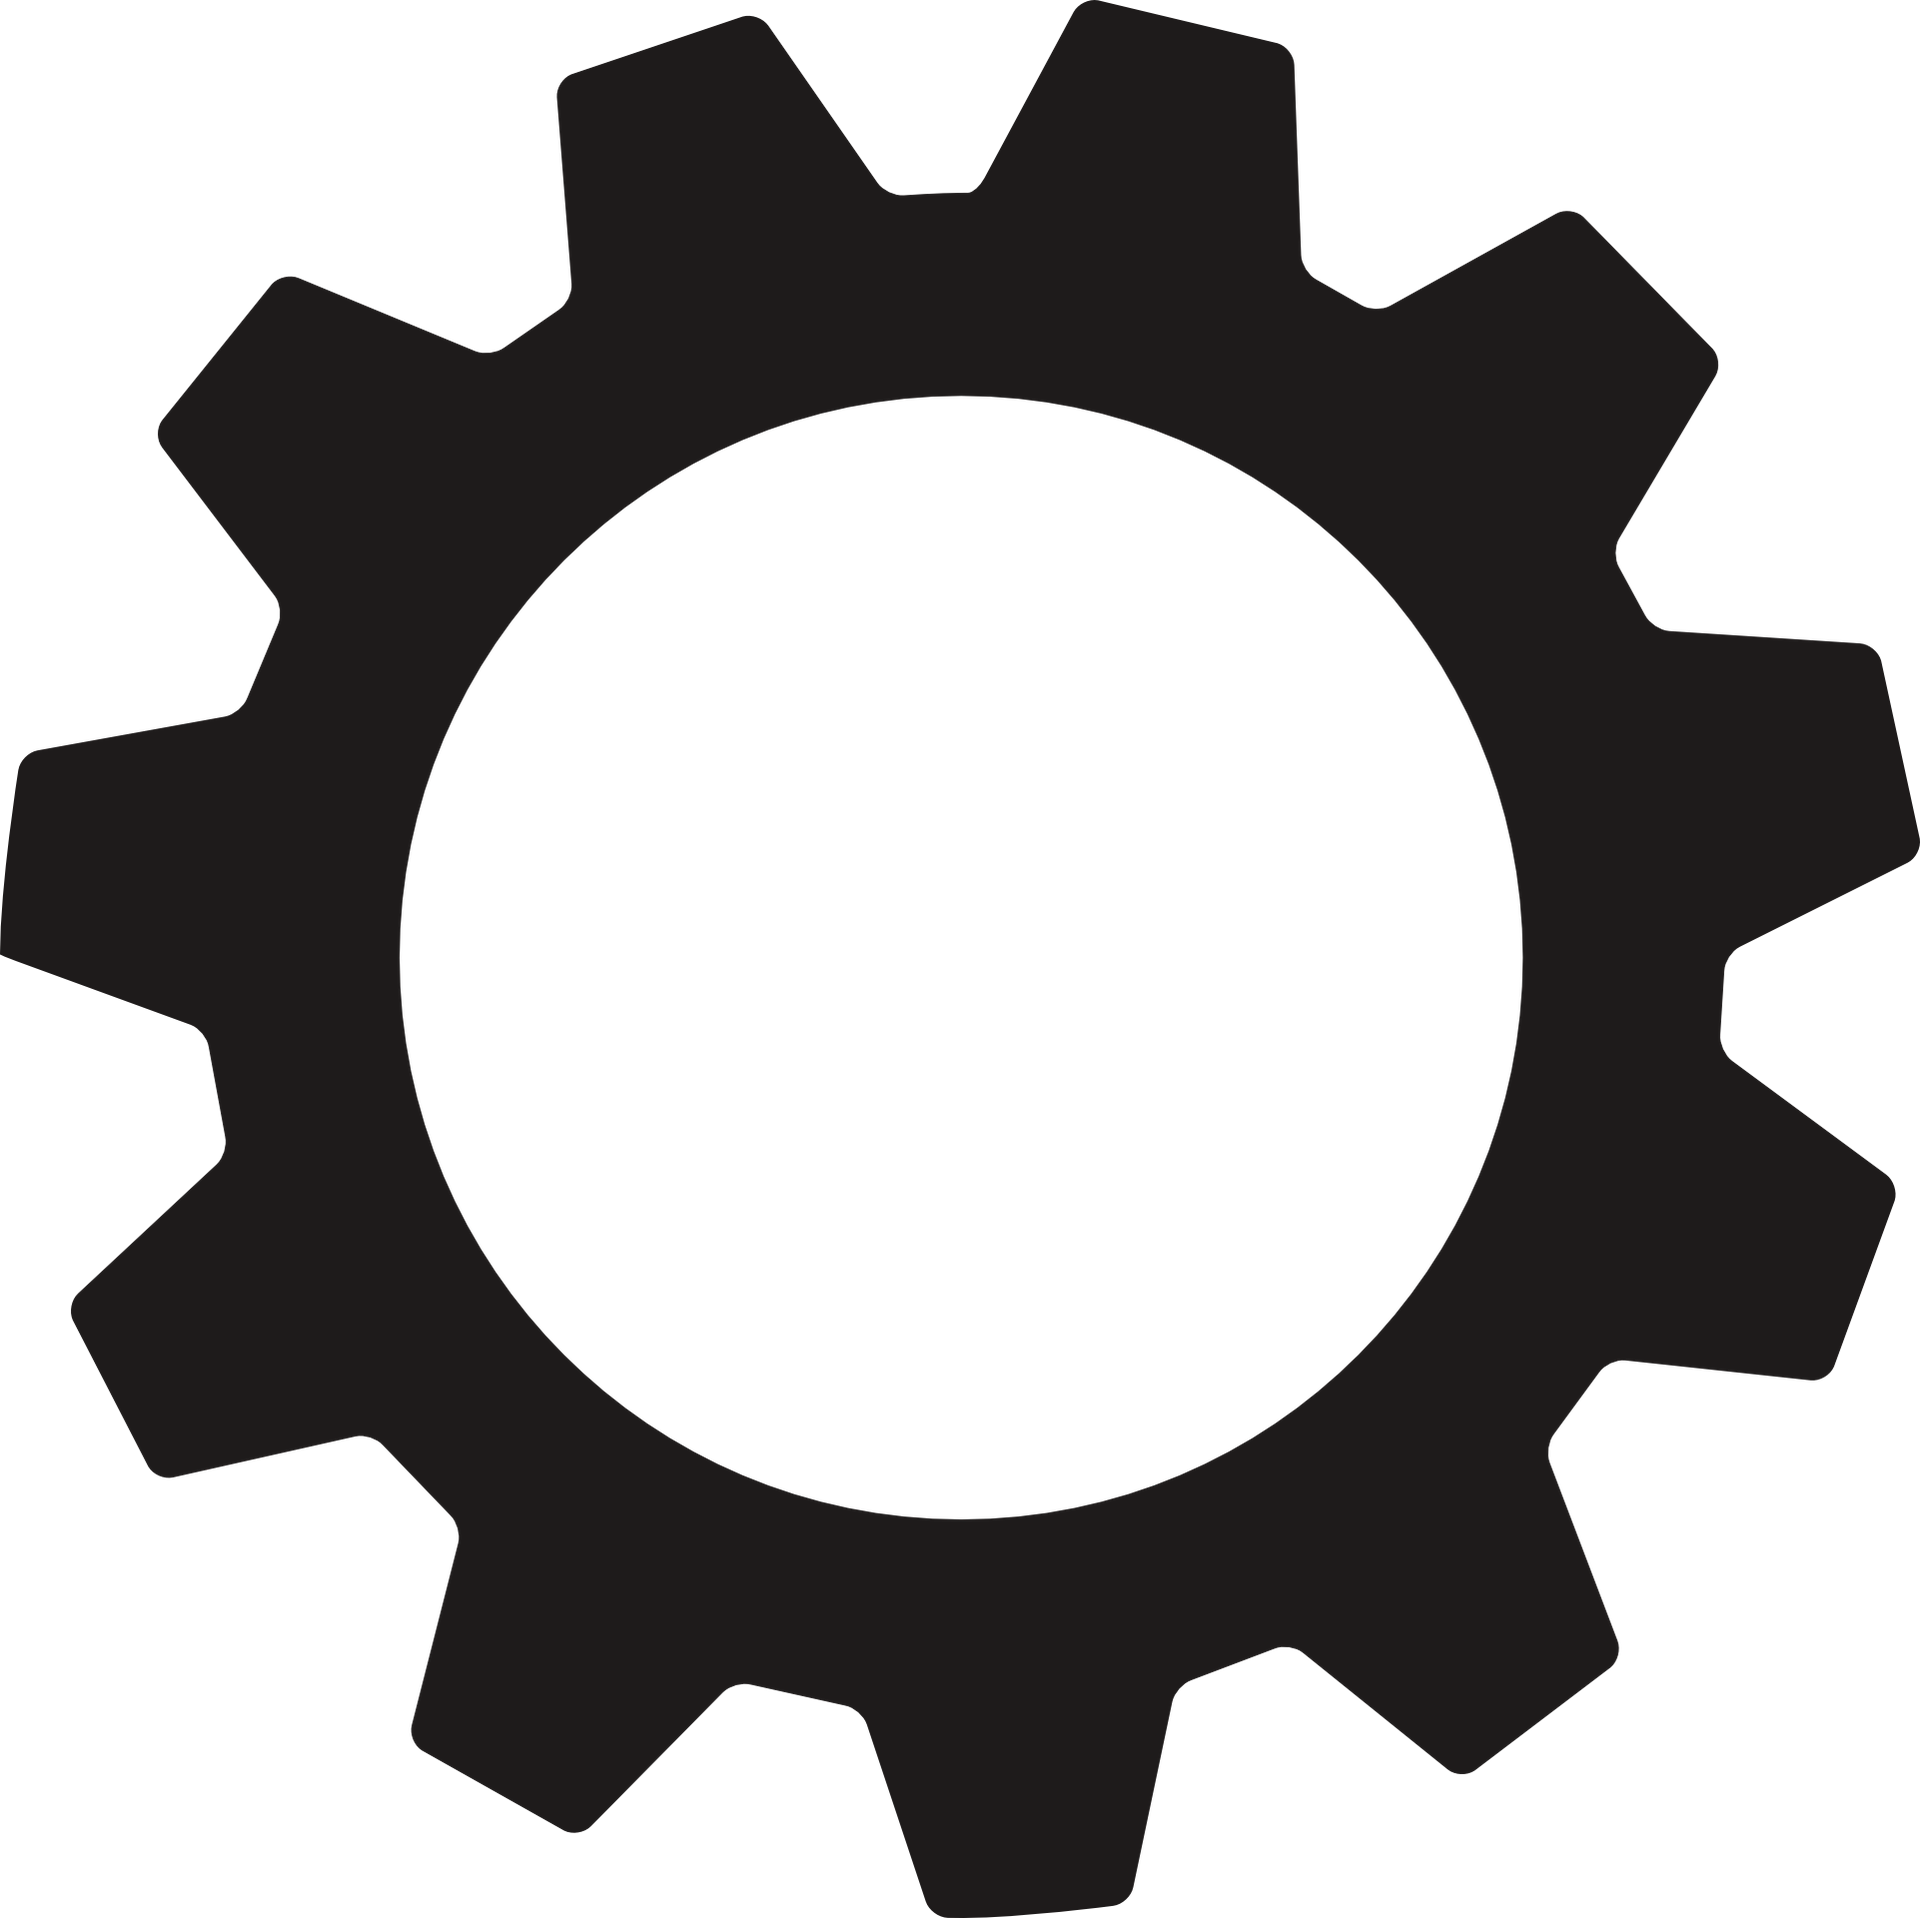
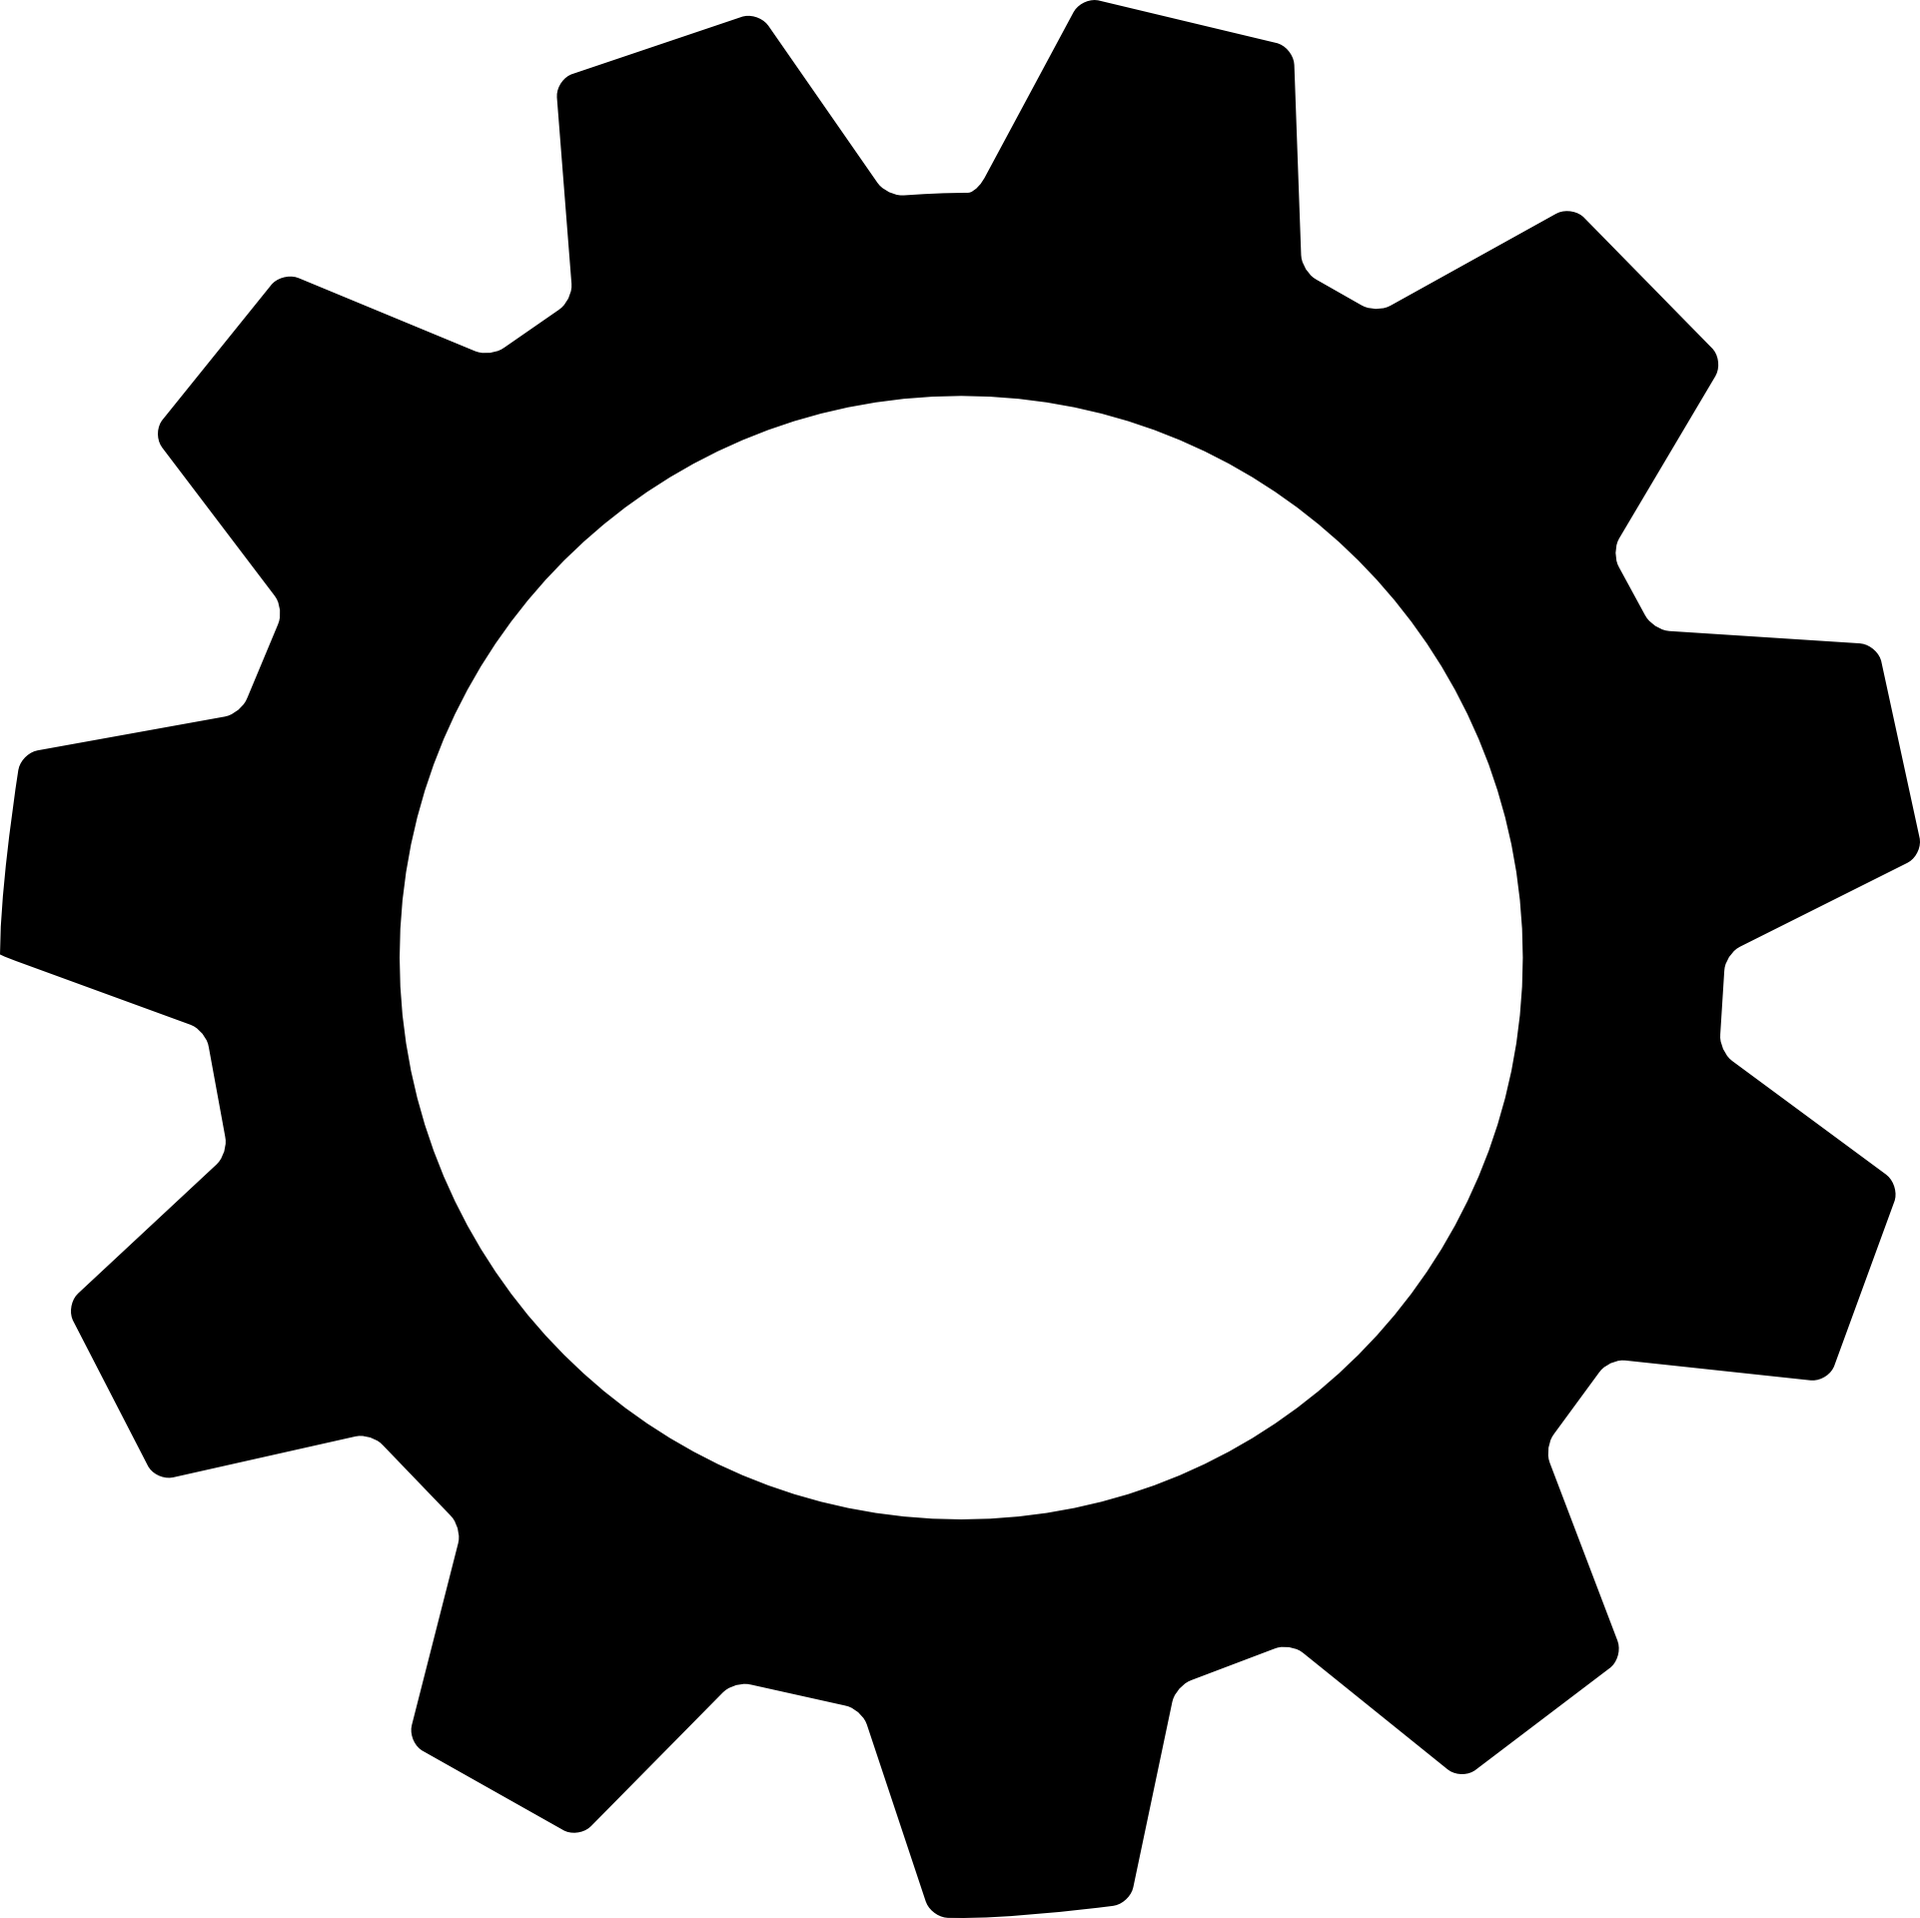
CSS.

diff --git a/src/jeu/controlleur/test sombre.css b/src/jeu/controlleur/test sombre.css
@@ -55,6 +55,19 @@
     -fx-text-fill: white;
 }
 
-#parametres, #annuler {
-    -fx-blend-mode: difference;
+#imageFleche {
+    -fx-background-image: url('../images/retourblanc.png');
+    -fx-background-size: contain;
+}
+
+#imageOptions {
+    -fx-background-image: url('../images/parametresblanc.png');
+    -fx-background-size: contain;
+}
+
+#flecheSens {
+    -fx-background-image: url('../images/flecheblanche.png');
+    -fx-background-size: contain;
+    -fx-background-repeat: no-repeat;
+    -fx-background-position: center;
 }

diff --git a/src/jeu/controlleur/clair.css b/src/jeu/controlleur/clair.css
@@ -46,3 +46,20 @@
 .toggle-button:selected {
     -fx-background-color: #bbb;
 }
+
+#imageFleche {
+    -fx-background-image: url('../images/retour.png');
+    -fx-background-size: contain;
+}
+
+#imageOptions {
+    -fx-background-image: url('../images/parametres.png');
+    -fx-background-size: contain;
+}
+
+#flecheSens {
+    -fx-background-image: url('../images/fleche.png');
+    -fx-background-size: contain;
+    -fx-background-repeat: no-repeat;
+    -fx-background-position: center;
+}

diff --git a/src/jeu/modele/Serveur.java b/src/jeu/modele/Serveur.java
@@ -1,4 +1,4 @@
-package jeu.modele;
+/*package jeu.modele;
 
 import java.io.*;
 import java.net.*;
@@ -6,22 +6,28 @@ import java.util.*;
 
 public class Serveur {
     private static final int PORT = 5000;
-    private static int nbJoueurs = 4;
+    private static final int NBJOUEURS = 4;
     private static final List<Socket> sockets = new ArrayList<>();
-    private static List<Joueur> joueurs = new ArrayList<>();
+    private static final List<Joueur> joueurs = new ArrayList<>();
 
     public static void creerServeur() {
-        try (ServerSocket serverSocket = new ServerSocket(PORT)) { //Créé un serveur sur le port 5000.
+        try (ServerSocket serveur = new ServerSocket(PORT)) { //Créé un serveur sur le port 5000.
             System.out.println("Serveur créé.");
-            while (joueurs.size()<nbJoueurs) {
-                Socket clientSocket = serverSocket.accept(); //Accepter les connexions.
-                System.out.println("Nouveau joueur connecté");
-            }
+            Partie partie = new Partie();
             
-            System.out.println("La partie commence.");
-            for (Socket socket : sockets) {
-                new PrintWriter(socket.getOutputStream(), true).println("Démarrage en cours...");
+            while (joueurs.size()<NBJOUEURS) {
+                Socket clientSocket = serveur.accept(); //Accepter les connexions.
+                synchronized (sockets) {
+                    Joueur joueur = new Joueur(partie);
+                    joueur.setSocket(clientSocket);
+                    joueurs.add(joueur);
+                    sockets.add(clientSocket);
+                    Connexion c = new Connexion(clientSocket);
+                    Thread processusConnexion = new Thread(c);
+                    envoyerMessageTous("Un nouveau joueur a rejoint la partie !");
+                }
             }
+            envoyerMessageTous("Démarrage en cours...");
         } catch (IOException e) {
             e.printStackTrace();
         }
@@ -31,15 +37,6 @@ public class Serveur {
         try {
             BufferedReader in = new BufferedReader(new InputStreamReader(joueur.getSocket().getInputStream()));
             PrintWriter out = new PrintWriter(joueur.getSocket().getOutputStream(), true);
-
-            synchronized (sockets) {
-                if (joueurs.size() == nbJoueurs) {
-                    System.out.println("Tous les joueurs sont connectés, la partie va commencer.");
-                    for (Socket socket : sockets) {
-                        new PrintWriter(socket.getOutputStream(), true).println("Démarrage en cours...");
-                    }
-                }
-            }
         } catch (IOException e) { 
             e.printStackTrace();
         }
@@ -49,15 +46,8 @@ public class Serveur {
         try {
             Socket clientSocket = new Socket ("localhost", PORT);
             joueur.setSocket(clientSocket);
-            
-            synchronized(sockets){
-                joueurs.add(joueur);
-                sockets.add(clientSocket);
-            }
             System.out.println("Connecté au serveur !");
-            System.out.println(joueur.getPseudo() + " a rejoint la partie.");
-            
-            new Thread(() -> gererJoueur(joueur)).start();
+            envoyerMessageTous(joueur.getPseudo() + " a rejoint la partie.");
         } catch (IOException e) {
             System.out.println("Impossible de rejoindre la partie !");
             e.printStackTrace();
@@ -66,14 +56,12 @@ public class Serveur {
     
     public static void quitterPartie(Joueur joueur) {
         try {
-            System.out.println(joueur.getSocket());
-            System.out.println(joueur.getSocket().isClosed());
             synchronized (sockets) {
                 if (joueur.getSocket() != null && !joueur.getSocket().isClosed()) {
                     joueur.getSocket().close();
                     joueurs.remove(joueur);
                     sockets.remove(joueur.getSocket());
-                    System.out.println("Joueur déconnecté.");
+                    envoyerMessageTous(joueur.getPseudo() + "  s'est déconnecté.");
                 }
             }
             System.out.println("joueurs"+joueurs);
@@ -82,5 +70,22 @@ public class Serveur {
             e.printStackTrace();
         }
     }
-}
+    
+    private static void envoyerMessageTous(String message) {
+        synchronized (sockets) {
+            Iterator<Socket> iterator = sockets.iterator();
+            while (iterator.hasNext()) {
+                Socket socket = iterator.next();
+                try {
+                    PrintWriter out = new PrintWriter(socket.getOutputStream(), true);
+                    out.println(message);
+                } catch (IOException e) {
+                    iterator.remove();
+                }
+            }
+        }
+    }
+    
+    
+}*/
 

diff --git a/src/jeu/controlleur/RejoindreController.java b/src/jeu/controlleur/RejoindreController.java
@@ -21,11 +21,10 @@ import javafx.scene.Scene;
 import javafx.scene.control.Button;
 import javafx.scene.control.Label;
 import javafx.scene.control.TextField;
-import javafx.scene.layout.HBox;
-import javafx.scene.layout.VBox;
+import javafx.scene.layout.StackPane;
 import javafx.stage.Stage;
 import jeu.modele.Joueur;
-import jeu.modele.Serveur;
+import jeu.vue.BoutonTheme;
 
 public class RejoindreController implements Initializable {
     @FXML private Label label;
@@ -35,6 +34,7 @@ public class RejoindreController implements Initializable {
     @FXML TextField pseudoField;
     @FXML Button boutonQuitter;
     private Joueur joueur = new Joueur();
+    @FXML StackPane placeBouton;
     
     private InetAddress ip;
     
@@ -47,6 +47,13 @@ public class RejoindreController implements Initializable {
             boutonRejoindre.setDisable(newValue.trim().isEmpty());
         });
         
+        placeBouton.sceneProperty().addListener((obs, oldScene, newScene) -> {
+            if (newScene != null) {
+                BoutonTheme boutonTheme = new BoutonTheme(newScene);
+                placeBouton.getChildren().add(boutonTheme);
+            }
+        });
+        
         boutonRetour.setOnAction(e ->{
             try{
                 retournerDemarrage();
@@ -54,23 +61,18 @@ public class RejoindreController implements Initializable {
                 System.out.println("erreur retour démarrage");
             }
         });
-        boutonTest.setOnAction(e -> {
-            new Thread(() -> Serveur.creerServeur()).start();
-        });
         
         boutonRejoindre.setOnAction(e -> {
             if (voirPartie()) {
                 joueur.setPseudo(pseudoField.getText());
-                Serveur.rejoindrePartie(joueur);
-                boutonRejoindre.setDisable(true);
-                boutonQuitter.setDisable(false);
+                //Serveur.rejoindrePartie(joueur);
             } else {
             label.setText("Aucune partie disponible.");
             }
         });
         
         boutonQuitter.setOnAction(e ->{
-            Serveur.quitterPartie(joueur);
+            //Serveur.quitterPartie(joueur);
         });
 
     }

diff --git a/src/jeu/modele/Connexion.java b/src/jeu/modele/Connexion.java
@@ -1,0 +1,31 @@
+/*
+package jeu.modele;
+
+import java.io.BufferedReader;
+import java.io.IOException;
+import java.io.InputStreamReader;
+import java.io.PrintWriter;
+import java.net.Socket;
+
+public class Connexion implements Runnable {
+    private Socket s;
+
+    public Connexion (Socket s) {
+        this.s = s;
+        BufferedReader in;
+        PrintWriter out;
+        
+        try {
+            in = new BufferedReader(new InputStreamReader(s.getInputStream()));
+            out = new PrintWriter(s.getOutputStream());
+        } catch (IOException e) {
+        
+        }
+    }
+
+    @Override
+    public void run() {
+        throw new UnsupportedOperationException("Not supported yet."); // Generated from nbfs://nbhost/SystemFileSystem/Templates/Classes/Code/GeneratedMethodBody
+    }
+}
+*/

diff --git a/src/jeu/controlleur/FXMLController.java b/src/jeu/controlleur/FXMLController.java
@@ -24,6 +24,7 @@ import javafx.scene.effect.BlendMode;
 import javafx.scene.effect.ColorAdjust;
 import javafx.scene.effect.DropShadow;
 import javafx.scene.layout.HBox;
+import javafx.scene.layout.StackPane;
 import javafx.scene.layout.VBox;
 import javafx.scene.shape.Rectangle;
 import javafx.stage.Modality;
@@ -73,7 +74,7 @@ public class FXMLController {
     @FXML private Button boutonFinir;
     @FXML private Button boutonInfos;
     @FXML private Tooltip tooltipInfos;
-    @FXML private ImageView flecheSens;
+    @FXML private StackPane flecheSens;
     @FXML private Button annuler;
 
     /**
